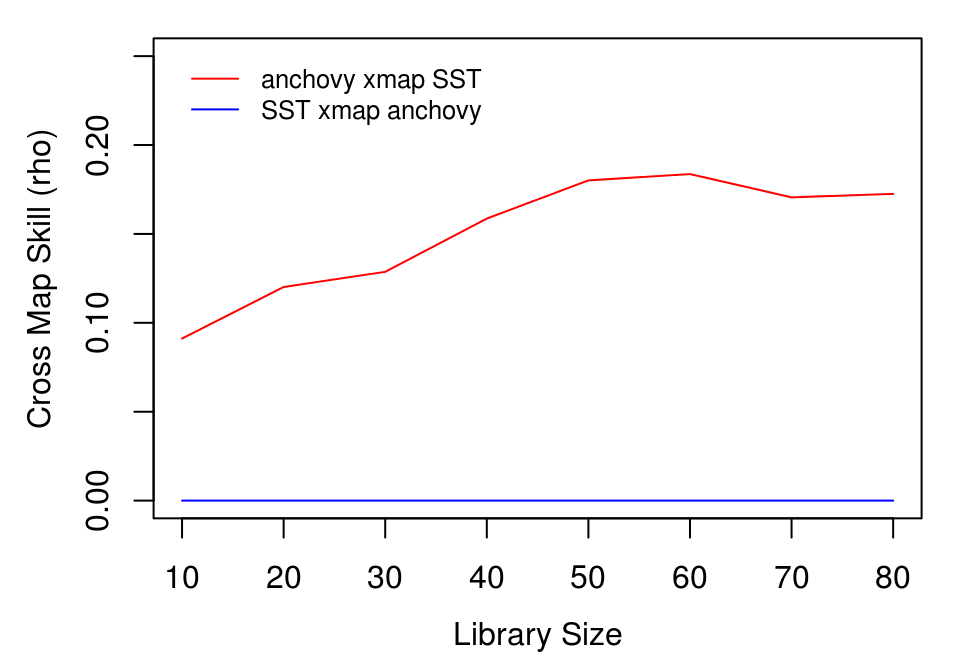
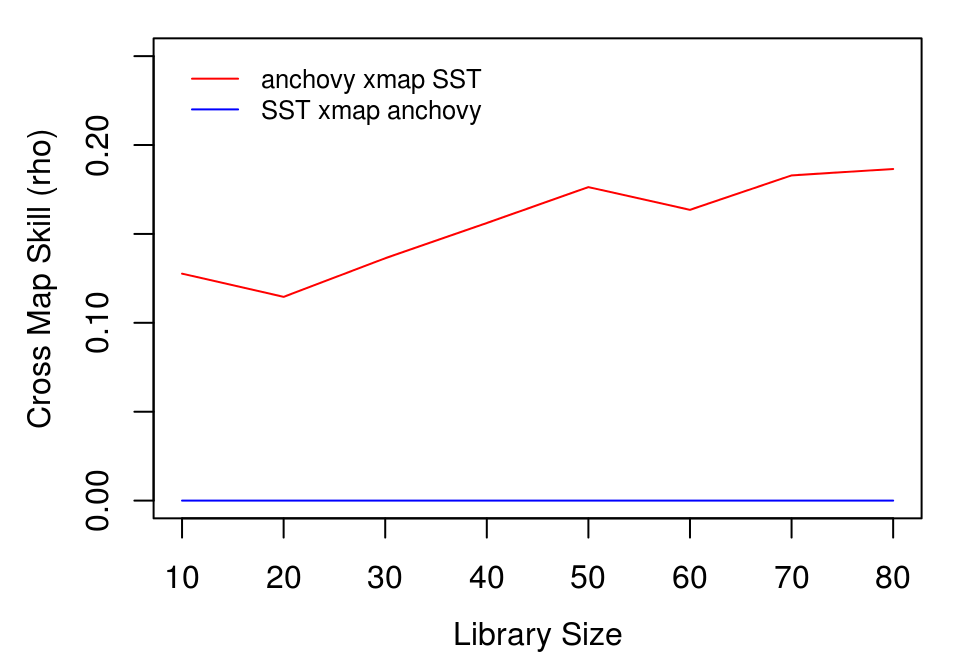
Deploy ha0ye/rEDM to github.com/ha0ye/rEDM.git:gh-pages

diff --git a/articles/rEDM.html b/articles/rEDM.html
@@ -89,7 +89,7 @@
                         <h4 class="author">Ethan Deyle</h4>
                         <h4 class="author">George Sugihara</h4>
             
-            <h4 class="date">2019-03-12</h4>
+            <h4 class="date">2019-03-13</h4>
       
       <small class="dont-index">Source: <a href="https://github.com/ha0ye/rEDM/blob/master/vignettes/rEDM.Rmd"><code>vignettes/rEDM.Rmd</code></a></small>
       <div class="hidden name"><code>rEDM.Rmd</code></div>
@@ -487,9 +487,9 @@
 ##  $ target_column: Factor w/ 1 level "np_sst": 1 1 1 1 1 1 1 1 1 1 ...
 ##  $ lib_size     : num  10 10 10 10 10 10 10 10 10 10 ...
 ##  $ num_pred     : num  76 76 76 76 76 76 76 76 76 76 ...
-##  $ rho          : num  0.0382 -0.0452 -0.2191 0.1535 -0.27 ...
-##  $ mae          : num  0.859 0.868 0.975 0.844 1.019 ...
-##  $ rmse         : num  1.05 1.1 1.19 1.06 1.24 ...</code></pre>
+##  $ rho          : num  0.258 -0.1589 0.0866 0.3058 0.2568 ...
+##  $ mae          : num  0.905 1.028 0.876 0.789 0.871 ...
+##  $ rmse         : num  1.11 1.3 1.11 1.01 1.09 ...</code></pre>
 <p>The output is a data.frame with statistics for each model run (in this case, 100 models at each of 8 library sizes). To interpret the results, we aggregate the cross map performance at each library size using the <code><a href="../reference/ccm_means.html">ccm_means()</a></code> function, which computes a mean value at each unique <code>lib_size</code>. Because average cross map skill less than 0 means there is no prediction skill, (predictions should not be anticorrelated with observations), we set negative values to 0 when plotting.</p>
 <div class="sourceCode" id="cb35"><pre class="sourceCode r"><code class="sourceCode r"><a class="sourceLine" id="cb35-1" data-line-number="1">a_xmap_t_means &lt;-<span class="st"> </span><span class="kw"><a href="../reference/ccm_means.html">ccm_means</a></span>(anchovy_xmap_sst)</a>
 <a class="sourceLine" id="cb35-2" data-line-number="2">t_xmap_a_means &lt;-<span class="st"> </span><span class="kw"><a href="../reference/ccm_means.html">ccm_means</a></span>(sst_xmap_anchovy)</a>

diff --git a/articles/rEDM-coprediction.html b/articles/rEDM-coprediction.html
@@ -86,7 +86,7 @@
       <h1>co-prediction: using rEDM to quantify dynamic similarity</h1>
                         <h4 class="author">Hao Ye</h4>
             
-            <h4 class="date">2019-03-12</h4>
+            <h4 class="date">2019-03-13</h4>
       
       <small class="dont-index">Source: <a href="https://github.com/ha0ye/rEDM/blob/master/vignettes/rEDM-coprediction.Rmd"><code>vignettes/rEDM-coprediction.Rmd</code></a></small>
       <div class="hidden name"><code>rEDM-coprediction.Rmd</code></div>

diff --git a/articles/rEDM-time-delay-ccm.html b/articles/rEDM-time-delay-ccm.html
@@ -86,7 +86,7 @@
       <h1>Using rEDM to quantify time delays in causation</h1>
                         <h4 class="author">Hao Ye</h4>
             
-            <h4 class="date">2019-03-12</h4>
+            <h4 class="date">2019-03-13</h4>
       
       <small class="dont-index">Source: <a href="https://github.com/ha0ye/rEDM/blob/master/vignettes/rEDM-time-delay-ccm.Rmd"><code>vignettes/rEDM-time-delay-ccm.Rmd</code></a></small>
       <div class="hidden name"><code>rEDM-time-delay-ccm.Rmd</code></div>
